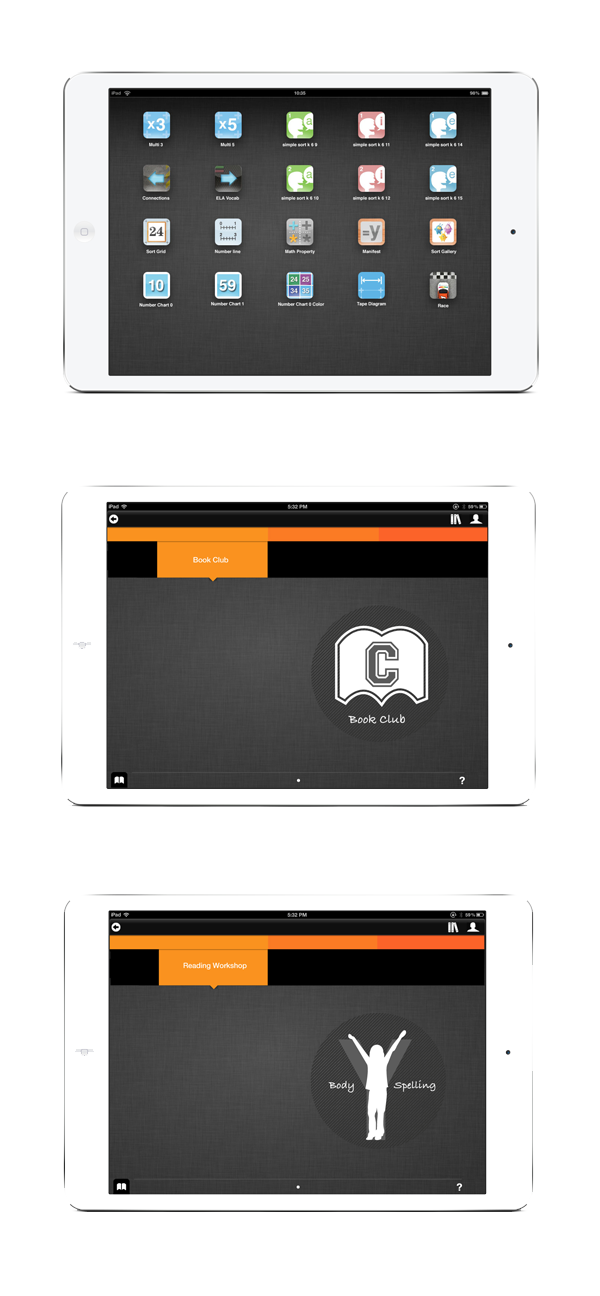
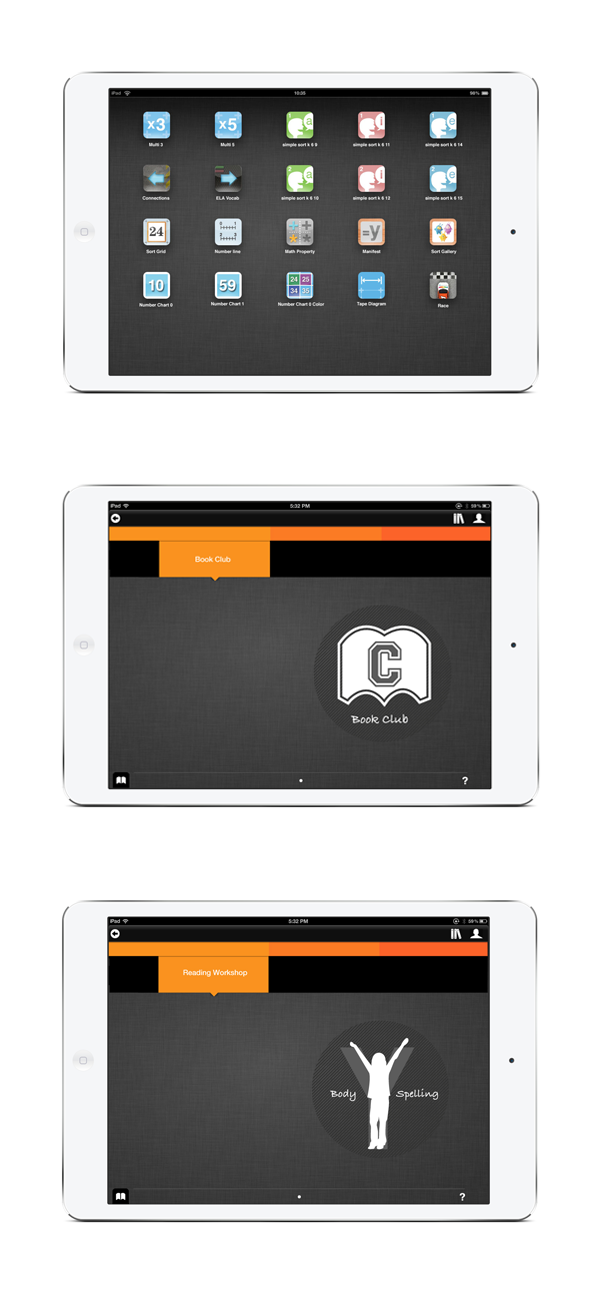
Made some minor in the footer, redid the iPad images, and fixed broken links

diff --git a/card.html b/card.html
@@ -31,7 +31,7 @@
 	<div class="container">
 		<div class="twelve columns">
 			<center>
-			<a href="index.html">CHELSEA ARITA</a> &nbsp; &nbsp;<a href="volkswagen.html">VOLKSWAGEN</a> &nbsp; &nbsp; <a href="be.html">BARE ESCENTUALS</a>
+			<a href="index.html">CHELSEA ARITA</a> <a href="vw.html">VOLKSWAGEN</a>  <a href="be.html">BARE ESCENTUALS</a>
 			</center>
 		</div>
 	</div>
@@ -56,21 +56,21 @@
 <div class="copyright">
 	<div class="container">
 		<div class="social">
-			Email me at chelsea@chelseaarita.com<br/>
+			<p>Email me at chelsea@chelseaarita.com</p>
 		</div>
-		</p>
+		
 
-		<a href="http://www.github.com/chelseaarita" target="_blank"><i class="fa fa-github fa-lg"></i></a> &nbsp; &nbsp;
+		<p><a href="http://www.github.com/chelseaarita" target="_blank"><i class="fa fa-github fa-lg"></i></a> &nbsp; &nbsp;
 		<a href="https://www.linkedin.com/in/chelseaarita" target="_blank"><i class="fa fa-linkedin fa-lg"></i></a> &nbsp; &nbsp;
 		<a href="http://twitter.com/chelseaarita" target="_blank"><i class="fa fa-twitter fa-lg"></i></a> &nbsp;&nbsp;
-		<a href="http://instagram.com/ckea" target="_blank"><i class="fa fa-instagram fa-lg"></i></a>
+		<a href="http://instagram.com/ckea" target="_blank"><i class="fa fa-instagram fa-lg"></i></a></p>
 		
-		<br/><br/><br/>
-
-	<div class="allrights">
-		© 2015. ALL RIGHTS RESERVED.
+			<div class="allrights">
+				<p>© 2015. ALL RIGHTS RESERVED.</p>
+			</div>
+		</div>
 	</div>
-</div>	
+</div>
 
 
 </body>

diff --git a/casestudy.html b/casestudy.html
@@ -110,13 +110,22 @@
 <!-- footer -->
 <div class="copyright">
 	<div class="container">
-		<div class="social"><p><a href="http://twitter.com/chelseaarita" target="_blank">twitter</a> / <a href="http://instagram.com/ckea" target="_blank">instagram</a> / <a href="http://www.github.com/chelseaarita" target="_blank">github</a><br/><br/>
-		Email me at chelsea@chelseaarita.com<br/>
-		</p></div>
-		<div class="allrights">
-		© 2015. ALL RIGHTS RESERVED.</div>
+		<div class="social">
+			<p>Email me at chelsea@chelseaarita.com</p>
+		</div>
+		
+
+		<p><a href="http://www.github.com/chelseaarita" target="_blank"><i class="fa fa-github fa-lg"></i></a> &nbsp; &nbsp;
+		<a href="https://www.linkedin.com/in/chelseaarita" target="_blank"><i class="fa fa-linkedin fa-lg"></i></a> &nbsp; &nbsp;
+		<a href="http://twitter.com/chelseaarita" target="_blank"><i class="fa fa-twitter fa-lg"></i></a> &nbsp;&nbsp;
+		<a href="http://instagram.com/ckea" target="_blank"><i class="fa fa-instagram fa-lg"></i></a></p>
+		
+			<div class="allrights">
+				<p>© 2015. ALL RIGHTS RESERVED.</p>
+			</div>
+		</div>
 	</div>
-</div>	
+</div>
 
 </body>
 </html>	

diff --git a/hokulani.html b/hokulani.html
@@ -66,21 +66,21 @@
 <div class="copyright">
 	<div class="container">
 		<div class="social">
-			Email me at chelsea@chelseaarita.com<br/>
+			<p>Email me at chelsea@chelseaarita.com</p>
 		</div>
-		</p>
+		
 
-		<a href="http://www.github.com/chelseaarita" target="_blank"><i class="fa fa-github fa-lg"></i></a> &nbsp; &nbsp;
+		<p><a href="http://www.github.com/chelseaarita" target="_blank"><i class="fa fa-github fa-lg"></i></a> &nbsp; &nbsp;
 		<a href="https://www.linkedin.com/in/chelseaarita" target="_blank"><i class="fa fa-linkedin fa-lg"></i></a> &nbsp; &nbsp;
 		<a href="http://twitter.com/chelseaarita" target="_blank"><i class="fa fa-twitter fa-lg"></i></a> &nbsp;&nbsp;
-		<a href="http://instagram.com/ckea" target="_blank"><i class="fa fa-instagram fa-lg"></i></a>
+		<a href="http://instagram.com/ckea" target="_blank"><i class="fa fa-instagram fa-lg"></i></a></p>
 		
-		<br/><br/><br/>
-
-	<div class="allrights">
-		© 2015. ALL RIGHTS RESERVED.
+			<div class="allrights">
+				<p>© 2015. ALL RIGHTS RESERVED.</p>
+			</div>
+		</div>
 	</div>
-</div>		
+</div>	
 
 </body>
 </html>

diff --git a/logos.html b/logos.html
@@ -53,21 +53,21 @@
 <div class="copyright">
 	<div class="container">
 		<div class="social">
-			Email me at chelsea@chelseaarita.com<br/>
+			<p>Email me at chelsea@chelseaarita.com</p>
 		</div>
-		</p>
+		
 
-		<a href="http://www.github.com/chelseaarita" target="_blank"><i class="fa fa-github fa-lg"></i></a> &nbsp; &nbsp;
+		<p><a href="http://www.github.com/chelseaarita" target="_blank"><i class="fa fa-github fa-lg"></i></a> &nbsp; &nbsp;
 		<a href="https://www.linkedin.com/in/chelseaarita" target="_blank"><i class="fa fa-linkedin fa-lg"></i></a> &nbsp; &nbsp;
 		<a href="http://twitter.com/chelseaarita" target="_blank"><i class="fa fa-twitter fa-lg"></i></a> &nbsp;&nbsp;
-		<a href="http://instagram.com/ckea" target="_blank"><i class="fa fa-instagram fa-lg"></i></a>
+		<a href="http://instagram.com/ckea" target="_blank"><i class="fa fa-instagram fa-lg"></i></a></p>
 		
-		<br/><br/><br/>
-
-	<div class="allrights">
-		© 2015. ALL RIGHTS RESERVED.
+			<div class="allrights">
+				<p>© 2015. ALL RIGHTS RESERVED.</p>
+			</div>
+		</div>
 	</div>
-</div>		
+</div>
 
 </body>
 </html>

diff --git a/ipad.html b/ipad.html
@@ -56,21 +56,21 @@
 <div class="copyright">
 	<div class="container">
 		<div class="social">
-			Email me at chelsea@chelseaarita.com<br/>
+			<p>Email me at chelsea@chelseaarita.com</p>
 		</div>
-		</p>
+		
 
-		<a href="http://www.github.com/chelseaarita" target="_blank"><i class="fa fa-github fa-lg"></i></a> &nbsp; &nbsp;
+		<p><a href="http://www.github.com/chelseaarita" target="_blank"><i class="fa fa-github fa-lg"></i></a> &nbsp; &nbsp;
 		<a href="https://www.linkedin.com/in/chelseaarita" target="_blank"><i class="fa fa-linkedin fa-lg"></i></a> &nbsp; &nbsp;
 		<a href="http://twitter.com/chelseaarita" target="_blank"><i class="fa fa-twitter fa-lg"></i></a> &nbsp;&nbsp;
-		<a href="http://instagram.com/ckea" target="_blank"><i class="fa fa-instagram fa-lg"></i></a>
+		<a href="http://instagram.com/ckea" target="_blank"><i class="fa fa-instagram fa-lg"></i></a></p>
 		
-		<br/><br/><br/>
-
-	<div class="allrights">
-		© 2015. ALL RIGHTS RESERVED.
+			<div class="allrights">
+				<p>© 2015. ALL RIGHTS RESERVED.</p>
+			</div>
+		</div>
 	</div>
-</div>	
+</div>
 
 </body>
 </html>

diff --git a/roxy.html b/roxy.html
@@ -54,21 +54,21 @@
 <div class="copyright">
 	<div class="container">
 		<div class="social">
-			Email me at chelsea@chelseaarita.com<br/>
+			<p>Email me at chelsea@chelseaarita.com</p>
 		</div>
-		</p>
+		
 
-		<a href="http://www.github.com/chelseaarita" target="_blank"><i class="fa fa-github fa-lg"></i></a> &nbsp; &nbsp;
+		<p><a href="http://www.github.com/chelseaarita" target="_blank"><i class="fa fa-github fa-lg"></i></a> &nbsp; &nbsp;
 		<a href="https://www.linkedin.com/in/chelseaarita" target="_blank"><i class="fa fa-linkedin fa-lg"></i></a> &nbsp; &nbsp;
 		<a href="http://twitter.com/chelseaarita" target="_blank"><i class="fa fa-twitter fa-lg"></i></a> &nbsp;&nbsp;
-		<a href="http://instagram.com/ckea" target="_blank"><i class="fa fa-instagram fa-lg"></i></a>
+		<a href="http://instagram.com/ckea" target="_blank"><i class="fa fa-instagram fa-lg"></i></a></p>
 		
-		<br/><br/><br/>
-
-	<div class="allrights">
-		© 2015. ALL RIGHTS RESERVED.
+			<div class="allrights">
+				<p>© 2015. ALL RIGHTS RESERVED.</p>
+			</div>
+		</div>
 	</div>
-</div>	
+</div>
 
 </body>
 </html>

diff --git a/vw.html b/vw.html
@@ -57,21 +57,21 @@
 <div class="copyright">
 	<div class="container">
 		<div class="social">
-			Email me at chelsea@chelseaarita.com<br/>
+			<p>Email me at chelsea@chelseaarita.com</p>
 		</div>
-		</p>
+		
 
-		<a href="http://www.github.com/chelseaarita" target="_blank"><i class="fa fa-github fa-lg"></i></a> &nbsp; &nbsp;
+		<p><a href="http://www.github.com/chelseaarita" target="_blank"><i class="fa fa-github fa-lg"></i></a> &nbsp; &nbsp;
 		<a href="https://www.linkedin.com/in/chelseaarita" target="_blank"><i class="fa fa-linkedin fa-lg"></i></a> &nbsp; &nbsp;
 		<a href="http://twitter.com/chelseaarita" target="_blank"><i class="fa fa-twitter fa-lg"></i></a> &nbsp;&nbsp;
-		<a href="http://instagram.com/ckea" target="_blank"><i class="fa fa-instagram fa-lg"></i></a>
+		<a href="http://instagram.com/ckea" target="_blank"><i class="fa fa-instagram fa-lg"></i></a></p>
 		
-		<br/><br/><br/>
-
-	<div class="allrights">
-		© 2015. ALL RIGHTS RESERVED.
+			<div class="allrights">
+				<p>© 2015. ALL RIGHTS RESERVED.</p>
+			</div>
+		</div>
 	</div>
-</div>	
+</div>
 
 
 </body>

diff --git a/be.html b/be.html
@@ -56,19 +56,19 @@
 <div class="copyright">
 	<div class="container">
 		<div class="social">
-			Email me at chelsea@chelseaarita.com<br/>
+			<p>Email me at chelsea@chelseaarita.com</p>
 		</div>
-		</p>
+		
 
-		<a href="http://www.github.com/chelseaarita" target="_blank"><i class="fa fa-github fa-lg"></i></a> &nbsp; &nbsp;
+		<p><a href="http://www.github.com/chelseaarita" target="_blank"><i class="fa fa-github fa-lg"></i></a> &nbsp; &nbsp;
 		<a href="https://www.linkedin.com/in/chelseaarita" target="_blank"><i class="fa fa-linkedin fa-lg"></i></a> &nbsp; &nbsp;
 		<a href="http://twitter.com/chelseaarita" target="_blank"><i class="fa fa-twitter fa-lg"></i></a> &nbsp;&nbsp;
-		<a href="http://instagram.com/ckea" target="_blank"><i class="fa fa-instagram fa-lg"></i></a>
+		<a href="http://instagram.com/ckea" target="_blank"><i class="fa fa-instagram fa-lg"></i></a></p>
 		
-		<br/><br/><br/>
-
-	<div class="allrights">
-		© 2015. ALL RIGHTS RESERVED.
+			<div class="allrights">
+				<p>© 2015. ALL RIGHTS RESERVED.</p>
+			</div>
+		</div>
 	</div>
 </div>	
 

diff --git a/css/style.css b/css/style.css
@@ -6,6 +6,7 @@ body {
 	padding: 0;
 	font-size: 11px;
 	font-weight: 700;
+	overflow: hidden;
 	}
 
 h2  {
@@ -140,9 +141,32 @@ header:a {
 	font-size: 12px;
 	color: #fff;
 	letter-spacing: 1px;
+	display: block;
 }
 
-
+@media (max-width: 600px) {
+		.fixed-nav-bar {
+	font-family: 'Montserrat', sans-serif;
+	position: fixed;
+	top: 0;
+	left: 0;
+	z-index: 9999;
+	width: 100%;
+	height: 10px;
+	background-color: #005F6B;
+	padding-top: 15px;
+	padding-bottom: 25px;
+	box-shadow: 0 1px 5px rgba(0,0,0,.4);
+	font-size: 12px;
+	color: #fff;
+	letter-spacing: 1px;
+	display: inline-block;
+	font-size: 22px;
+	line-height: 24px;
+	font-weight: 400;
+	text-transform: uppercase;
+		}
+}	
 
 .grid__item {
 			float: left;
@@ -246,7 +270,7 @@ header:a {
 	font-family: 'Montserrat', sans-serif;
 	font-size: 11px;
 	padding-top: 8rem;
-	padding-bottom: 8rem;
+	padding-bottom: 0rem;
 	letter-spacing: 1px;
 	}
 

diff --git a/index.html b/index.html
@@ -151,19 +151,18 @@
 		<div class="social">
 			<p>Email me at chelsea@chelseaarita.com</p>
 		</div>
-		</p>
+		
 
 		<p><a href="http://www.github.com/chelseaarita" target="_blank"><i class="fa fa-github fa-lg"></i></a> &nbsp; &nbsp;
 		<a href="https://www.linkedin.com/in/chelseaarita" target="_blank"><i class="fa fa-linkedin fa-lg"></i></a> &nbsp; &nbsp;
 		<a href="http://twitter.com/chelseaarita" target="_blank"><i class="fa fa-twitter fa-lg"></i></a> &nbsp;&nbsp;
 		<a href="http://instagram.com/ckea" target="_blank"><i class="fa fa-instagram fa-lg"></i></a></p>
 		
-		
-
-	<div class="allrights">
-		<p>© 2015. ALL RIGHTS RESERVED.</p>
+			<div class="allrights">
+				<p>© 2015. ALL RIGHTS RESERVED.</p>
+			</div>
+		</div>
 	</div>
-</div>	
-
+</div>
 </body>
 </html>
